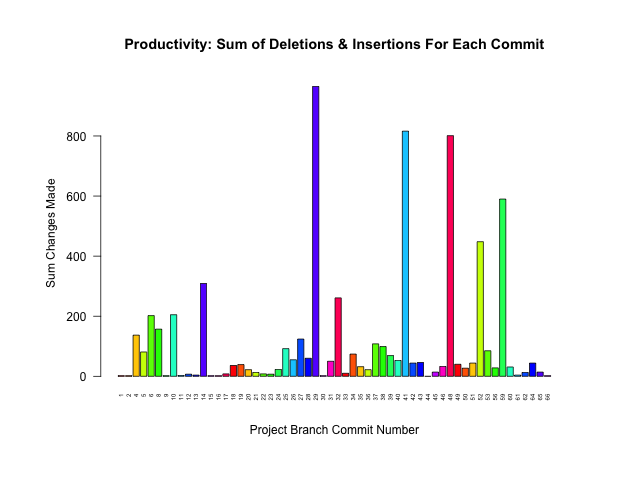
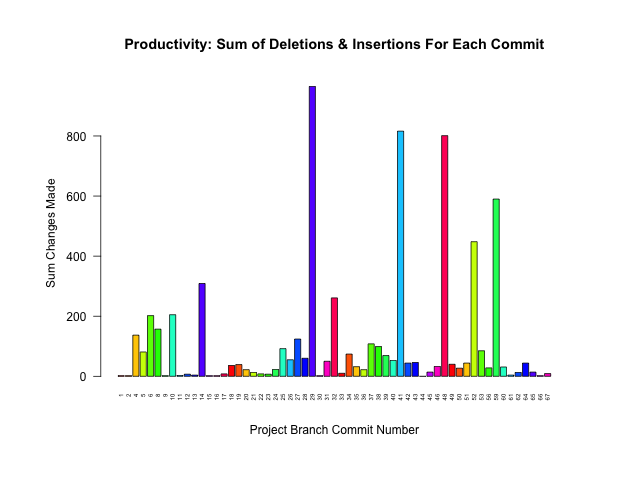
COMMIT #131

Changed region(s): [[0.1875, 0.1562, 0.8438, 0.8438]]

diff --git a/README.md b/README.md
@@ -18,8 +18,8 @@ ProjectName::BranchName.data
 
 Project Name | Last Updated | # Commits | # Branches | Merged Branches
 :---|:---|:---|:---|:---
-FASTQ_examiner                   |  2023-04-21  |  66   |  3  |  67%  (2/3)
-commit_tracker                   |  2023-04-21  |  129  |  1  |  1    	       (100%)
+FASTQ_examiner                   |  2023-04-23  |  67   |  3  |  67%  (2/3)
+commit_tracker                   |  2023-04-21  |  130  |  1  |  1    	       (100%)
 minishell                        |  2023-02-03  |  67   |  8  |  6    	       (75%)
 ft_printf                        |  2023-01-27  |  36   |  2  |  2    	       (100%)
 test_non-fastforward_merge-push  |  2023-01-27  |  15   |  2  |  1    	       (50%)
